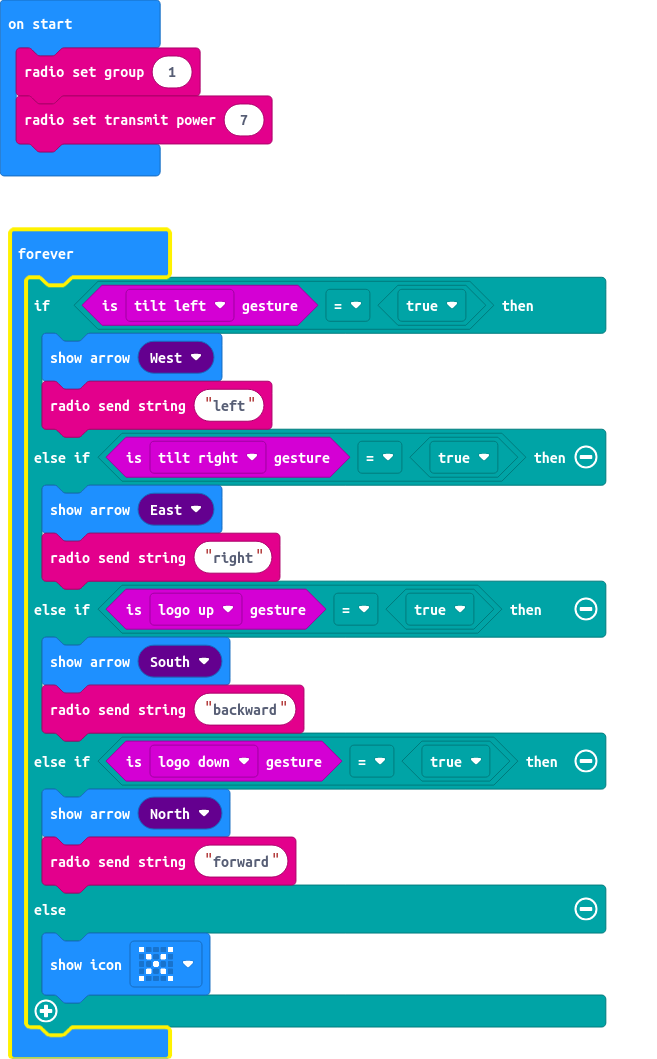
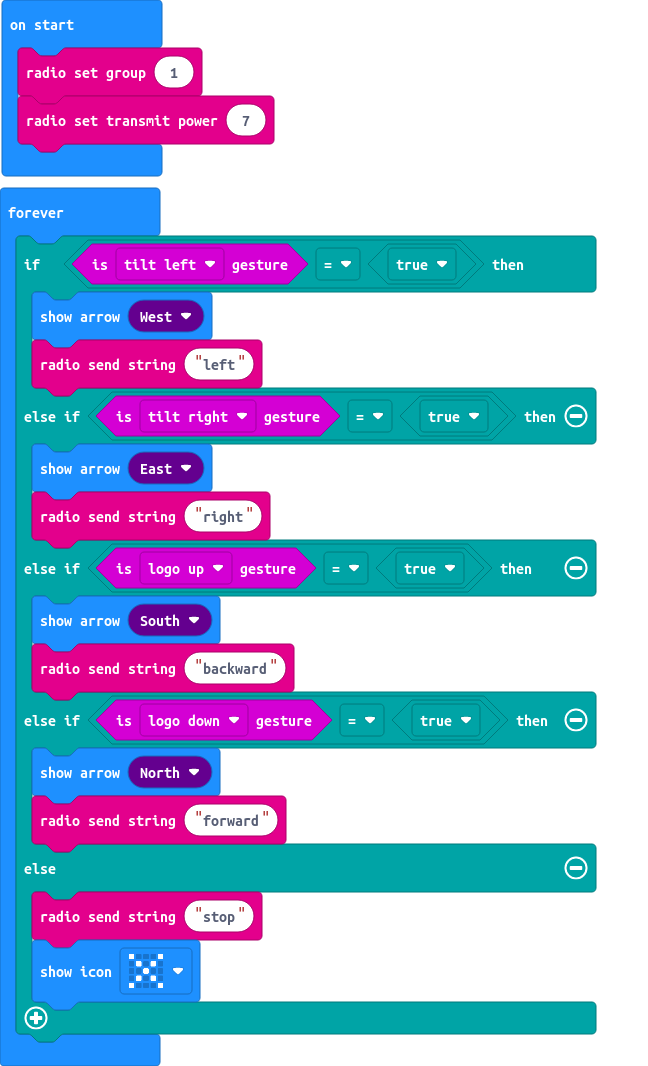
Update main.blocks, main.ts

diff --git a/main.ts b/main.ts
@@ -14,6 +14,7 @@ basic.forever(function () {
         basic.showArrow(ArrowNames.North)
         radio.sendString("forward")
     } else {
+        radio.sendString("stop")
         basic.showIcon(IconNames.No)
     }
 })
